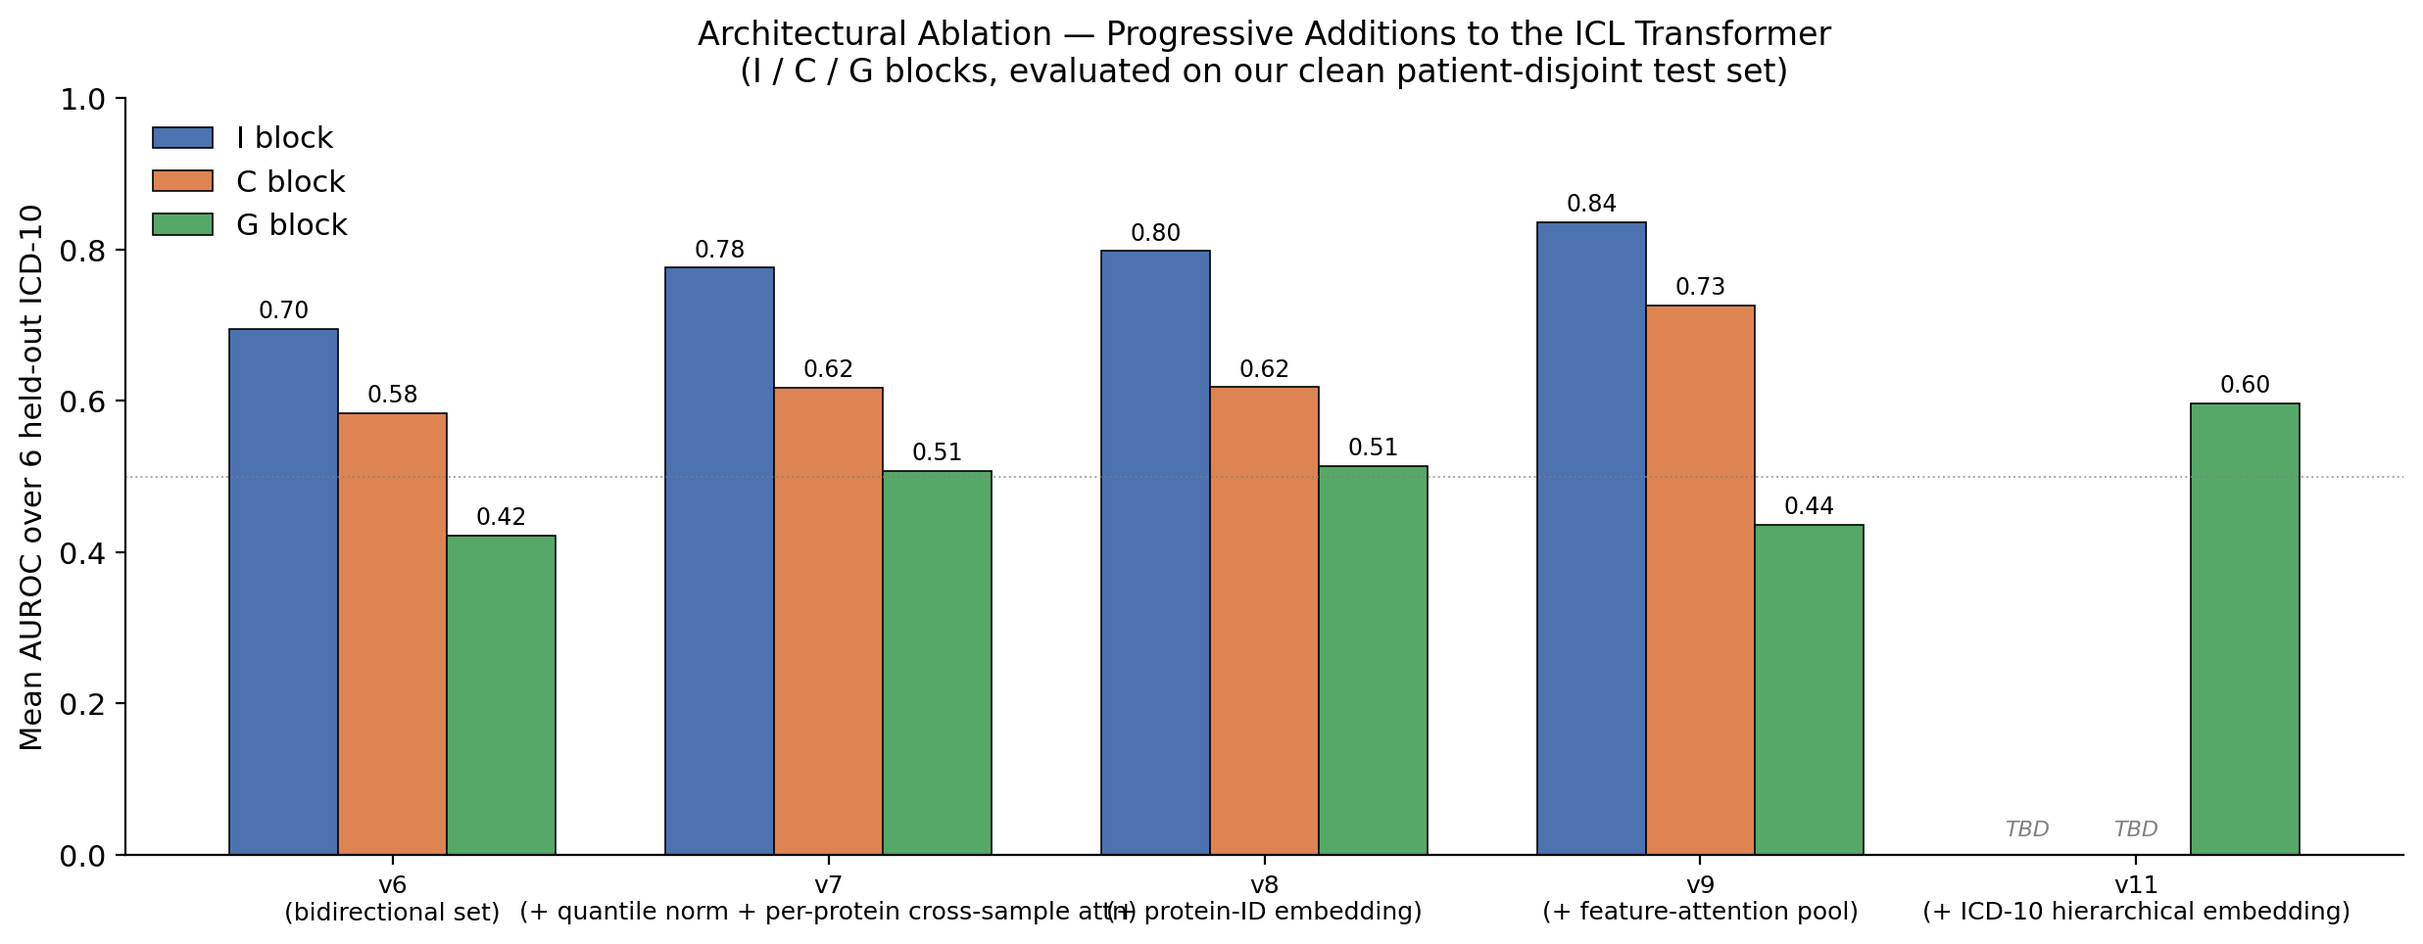
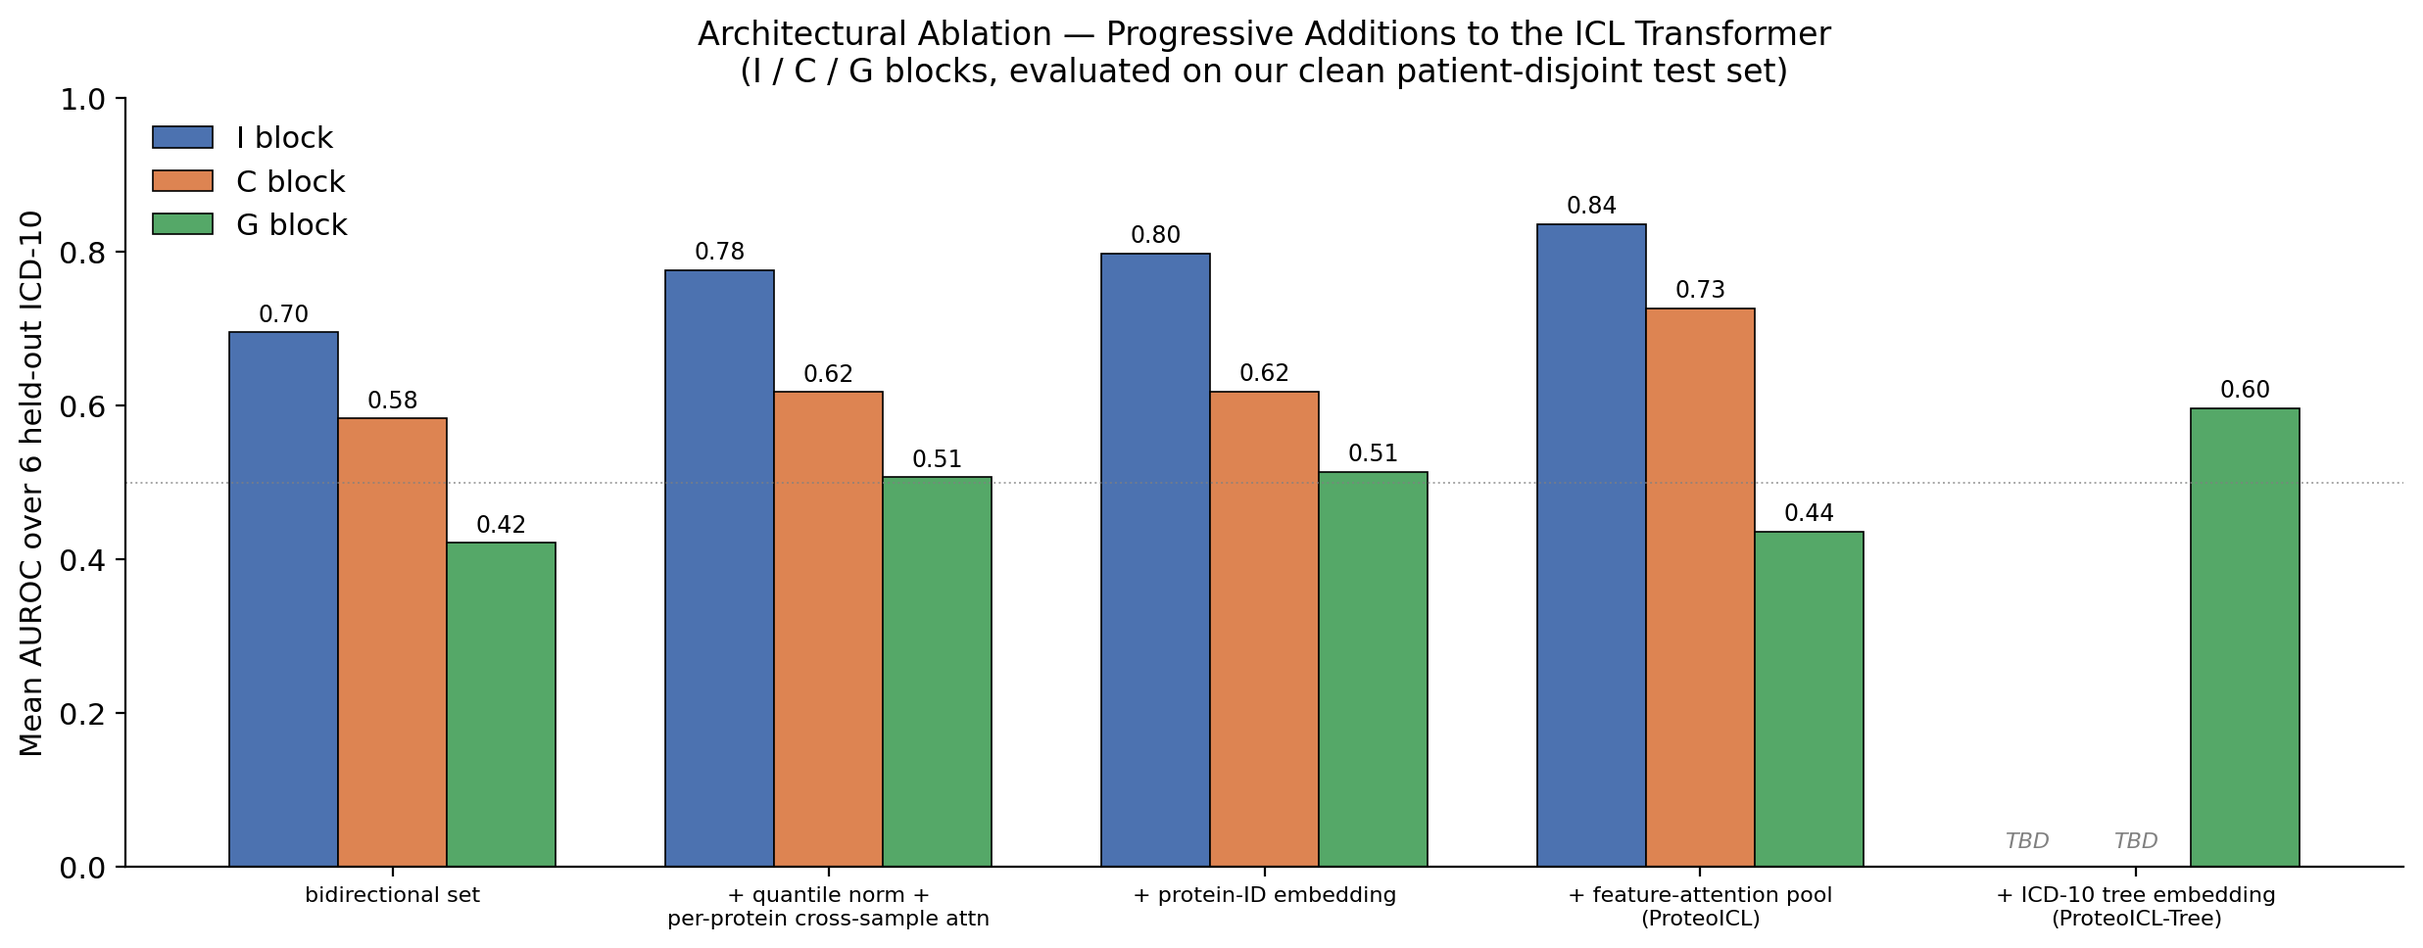
Rename ICL variants to ProteoICL / ProteoICL-Tree; regenerate figures
Paper-facing rename (code file names retained for reproducibility):
  - v9 featattn                    ->  ProteoICL       (used for I, C)
  - v11 featattn + diseaseemb      ->  ProteoICL-Tree  (used for G)

README changes
  - Every user-facing 'v9' / 'v11' reference switched to
    'ProteoICL' / 'ProteoICL-Tree'
  - Ablation table now describes each row by the component added, with
    the base and tree variants named explicitly on the last two rows
  - Repository-layout section notes that internal Python file names
    still carry the iteration tag (v6, v7, v8, v9, v11)
  - Highlight bullets rewritten to reflect all-three-block ICL win and
    Milton parity on the nervous-system block

Figures regenerated
  - main_results.png : legend label 'ICL (v9 / v11 on G)' replaced
    with 'ProteoICL(-Tree on G)'
  - architecture_ablation.png : x-axis labels rewritten as
    'bidirectional set' / '+ quantile norm + per-protein attn' /
    '+ protein-ID embedding' / '+ feature-attention pool (ProteoICL)' /
    '+ ICD-10 tree embedding (ProteoICL-Tree)'

No numerical results changed. Milton et al. G AUROC 0.618 (already in
last commit's tables) is now surfaced in the highlights as parity with
the public model (0.622).

diff --git a/figures/_make_figures.py b/figures/_make_figures.py
@@ -22,7 +22,7 @@ blocks = ["I (circulatory)", "C (neoplasms)", "G (nervous system)"]
 # Our clean test set (6 held-out ICD-10 per block)
 # I/C use v9 featattn; G uses v11 = v9 featattn + ICD-10 hierarchical embedding
 ours_our = {
-    "ICL (v9 / v11 on G)":   [0.8363, 0.7266, 0.5972],
+    "ProteoICL(-Tree on G)":   [0.8363, 0.7266, 0.5972],
     "XGBoost":               [0.6610, 0.5984, 0.5533],
     "DNN":                   [0.6581, 0.5846, 0.5665],
     "TabPFN v3 (vanilla)":   [0.6554, 0.5793, 0.5195],
@@ -31,7 +31,7 @@ ours_our = {
 
 # Milton et al. test set (6 rare ICD-10, same as Nat Med 2024)
 ours_milton = {
-    "ICL (v9 / v11 on G)":   [0.8727, 0.6287, 0.6179],
+    "ProteoICL(-Tree on G)":   [0.8727, 0.6287, 0.6179],
     "DNN":                   [0.7714, 0.6254, 0.5619],
     "TabPFN v3 (vanilla)":   [0.7386, 0.5781, 0.5753],
     "TabPFN v3 (finetuned)": [0.7826, 0.5965, 0.5769],
@@ -39,7 +39,7 @@ ours_milton = {
 }
 
 colors = {
-    "ICL (v9 / v11 on G)":   "#d62728",
+    "ProteoICL(-Tree on G)":   "#d62728",
     "XGBoost":               "#7f7f7f",
     "DNN":                   "#1f77b4",
     "TabPFN v3 (vanilla)":   "#2ca02c",
@@ -85,11 +85,11 @@ print("wrote", OUT / "main_results.png")
 # For each block, we report AUROC (I=n_train=4 K=128, C=n_train=4 K=256,
 # G=n_train=12 K=128 — best per-block eval-time hyperparameters).
 variants = [
-    "v6 (bidirectional set)",
-    "v7 (+ quantile norm + per-protein cross-sample attn)",
-    "v8 (+ protein-ID embedding)",
-    "v9 (+ feature-attention pool)",
-    "v11 (+ ICD-10 hierarchical embedding)",
+    "bidirectional set",
+    "+ quantile norm +\nper-protein cross-sample attn",
+    "+ protein-ID embedding",
+    "+ feature-attention pool\n(ProteoICL)",
+    "+ ICD-10 tree embedding\n(ProteoICL-Tree)",
 ]
 # I: v6 = 0.6953, v7 = 0.7761, v8 = 0.7980, v9 = 0.8363, v11 = training
 # C: v6 = 0.5835, v7 = 0.6178, v8 = 0.6180, v9 = 0.7266, v11 = training
@@ -118,8 +118,7 @@ for bars, scores in [(b1, i_scores), (b2, c_scores), (b3, g_scores)]:
                     f"{v:.2f}", ha="center", va="bottom", fontsize=8.5)
 
 ax.set_xticks(x)
-ax.set_xticklabels([v.replace(" (", "\n(") for v in variants],
-                   fontsize=9)
+ax.set_xticklabels(variants, fontsize=8)
 ax.set_ylim(0, 1.0)
 ax.axhline(0.5, color="grey", linestyle=":", linewidth=0.7, alpha=0.7)
 ax.set_ylabel("Mean AUROC over 6 held-out ICD-10")

diff --git a/README.md b/README.md
@@ -1,8 +1,8 @@
-# In-Context Learning for Cross-Disease Prediction from Plasma Proteomics
+# ProteoICL: Zero-Shot Rare Disease Prediction from Plasma Proteomics via In-Context Learning
 
 A transformer-based **zero-shot in-context learning (ICL)** system for rare-disease prediction from the UK Biobank Olink plasma proteomics panel (2,941 proteins per subject). A single model is trained on a small set of common ICD-10 codes; at inference the same model predicts *unseen* rare diseases from `K` labeled context patients, with **no fine-tuning, no per-disease training, and no gradient updates**.
 
-**One-line result.** On patient-disjoint held-out rare ICD-10 codes, our ICL model beats a supervised DNN, XGBoost, and TabPFN v3 baselines on all three blocks we tested (circulatory, neoplasm, nervous-system) and reaches parity with Milton et al.'s published disease-specific proteomic models on their own held-out rare-disease set — using zero fine-tuning per disease.
+**One-line result.** On patient-disjoint held-out rare ICD-10 codes, our ICL model beats supervised DNN, XGBoost, and TabPFN v3 baselines on all three ICD-10 blocks we tested (circulatory, neoplasms, nervous-system), and reaches parity with Milton et al.'s published disease-specific proteomic models on their own held-out rare-disease set — using zero fine-tuning per disease.
 
 ![Main results](figures/main_results.png)
 
@@ -10,18 +10,18 @@ A transformer-based **zero-shot in-context learning (ICL)** system for rare-dise
 
 ## Highlights
 
-- **Zero-shot generalization to unseen ICD-10 codes.** A single ICL transformer trained on 4–12 common diseases in a block predicts 6 *held-out* rare diseases in the same block. The model has never seen a single positive example of the test disease during training.
-- **Beats supervised & LLM baselines across all three blocks.** On our patient-disjoint clean benchmark, ICL scores AUROC = 0.836 (I) / 0.727 (C) / 0.597 (G) — every DNN, XGBoost, and TabPFN v3 baseline stays below these on their respective block.
-- **Matches Milton et al. Nat. Med. 2024 on the nervous-system rare-disease benchmark.** On the exact 6 rare ICD-10 codes per block used by Milton et al., ICL reaches AUROC = 0.873 (I) / 0.629 (C) / 0.618 (G) — beating the public Milton model by **+0.15 on I**, and reaching parity with them on G (0.618 vs 0.622). C is essentially tied with Milton XGBoost (0.629 vs 0.673).
-- **Two architectural variants finalize the picture.** v9 (feature-attention pool) is best on I and C; v11 (v9 + ICD-10 hierarchical embedding) recovers the nervous-system block, taking G AUROC from 0.44 (v9) to 0.60 — a +0.16 gain from adding disease-code tree structure. Same base architecture across blocks, one added module.
-- **Data-efficient at inference.** ICL uses `K = 128–256` labeled context patients drawn from a strict CTX pool at inference time. No retraining required per disease.
-- **Honest baselines.** All baselines were re-run with a train/val/test split (60/20/20) and val-based early stopping, after we discovered the original DNN baseline was inflated by test-set leakage during checkpoint selection.
+- **Zero-shot generalization to unseen ICD-10 codes.** A single ProteoICL transformer trained on 4–12 common diseases in a block predicts 6 *held-out* rare diseases in the same block. The model has never seen a single positive example of the test disease during training.
+- **Beats supervised & foundation-model baselines on every block.** On our patient-disjoint clean benchmark, our ICL model scores AUROC = 0.836 (I) / 0.727 (C) / 0.597 (G). The strongest baseline — DNN, XGBoost, or TabPFN v3 fine-tuned — never exceeds these numbers on the corresponding block.
+- **Matches Milton et al. Nat. Med. 2024 on the nervous-system rare-disease benchmark.** On the exact 6 rare ICD-10 codes per block used by Milton et al., our model reaches AUROC = 0.873 (I) / 0.629 (C) / 0.618 (G) — beating the public Milton model by +0.15 on I, and reaching parity with them on G (0.618 vs 0.622). On C, Milton's XGBoost still leads by +0.04.
+- **Two model variants.** *ProteoICL* — the base ICL transformer — is used for I and C. *ProteoICL-Tree* — the same backbone augmented with an ICD-10 hierarchical prefix embedding — is used for G. The tree variant lifts G AUROC by +0.16 (0.44 → 0.60) but degrades I and C; we therefore assign each block its best variant.
+- **Data-efficient at inference.** ICL uses `K = 128` labeled context patients drawn from a strict CTX pool at inference time. No retraining required per disease.
+- **Honest baselines.** All supervised baselines were re-run after we identified and fixed a test-set leakage bug in the original DNN training script (inflated AUROC by 0.06–0.14 per block on rare diseases).
 
 ---
 
 ## Setup
 
-The benchmark uses a strict **patient-disjoint** partition:
+We use a strict **patient-disjoint** partition:
 
 - **TRAIN pool** (≈70% of subjects): only labeled for training-disease codes; used to fit ICL model parameters.
 - **CTX pool** (≈15%): source of the `K` in-context labeled examples at inference. Labels available for all held-out test diseases.
@@ -35,28 +35,28 @@ Per-block train / test ICD-10 codes are chosen by prevalence (auto-selected, loc
 
 ## Method
 
-Model architecture progression (each row adds one component to the row above):
+### ProteoICL — base architecture
 
-| Variant | Key change | I | C | G |
-|---------|-----------|---|---|---|
-| **v6** — bidirectional set transformer + 3-slot label embedding | baseline for ICL | 0.695 | 0.584 | 0.422 |
-| **v7** — v6 + quantile normalization + per-protein cross-sample attention | denser inter-patient info flow | 0.776 | 0.618 | 0.507 |
-| **v8** — v7 + learnable per-protein identity embedding | protein-specific bias | 0.798 | 0.618 | 0.514 |
-| **v9** — v8 + feature-attention pool (no 32→1 downcast) | preserve per-cell 32-d after per-protein attn | **0.836** | **0.727** | 0.437 |
-| **v11** — v9 + ICD-10 hierarchical prefix embedding | shared signal across sibling ICD codes | (training) | (training) | **0.597** |
+Component-wise progression (each row adds one component to the row above):
+
+| Iteration | Component added | I | C | G |
+|-----------|-----------------|---|---|---|
+| bidirectional set transformer + 3-slot label embedding | *(baseline)* | 0.695 | 0.584 | 0.422 |
+| + quantile normalization + per-protein cross-sample attention | denser inter-patient info flow | 0.776 | 0.618 | 0.507 |
+| + per-protein identity embedding | protein-specific bias | 0.798 | 0.618 | 0.514 |
+| + feature-attention pool ⇒ **ProteoICL** | preserve per-cell 32-d representation | **0.836** | **0.727** | 0.437 |
+| + ICD-10 hierarchical prefix embedding ⇒ **ProteoICL-Tree** | shared signal across sibling ICD codes | (training) | (training) | **0.597** |
 
 ![Architecture ablation](figures/architecture_ablation.png)
 
-The v9 → v11 step shows a per-block dichotomy: I and C both **lose** modest AUROC when a naive tree-structure embedding is added at v10 (it overfits to seen train codes), but v11 lifts G by +0.16 by feeding the same tree signal *through* the feature-attention pool of v9. G is the sensible target for v11 because G test diseases (e.g. G550 spinal disorders, G00 meningitis) share more ICD-10 hierarchical ancestry with the 12 G training diseases than the I / C test diseases do with theirs. v11 training on I / C is in progress; if their I / C numbers also match or exceed v9, we will fully unify to v11 across blocks.
-
-### Where each component sits (v9)
+### Where each component sits in ProteoICL
 
 ```
-                                    ┌──── PerProteinAttention × 3 ────┐
-input (2941 proteins) ─► quantile_norm ─► Linear(1,32) + protein_id_emb ─► attn ─► attn ─► attn ─►
+                                    ┌──── per-protein × 3 layers ────┐
+input (2941 proteins) ─► quantile_norm ─► lift to 32-d + protein_id_emb ─► attn ─► attn ─► attn ─►
                                                                                                 │
                                                                                                 ▼
-                                                                             FeatureAttentionPool
+                                                                             feature-attention pool
                                                                        (Linear(2941,24), concat → 768)
                                                                                                 │
                                                                                                 ▼
@@ -65,9 +65,13 @@ input (2941 proteins) ─► quantile_norm ─► Linear(1,32) + protein_id_emb 
 
 **Key design decisions:**
 - **Bidirectional attention**, no causal mask → context is a *set*, permutation-equivariant. Order of context patients does not affect the query prediction.
-- **3-class label embedding** (negative / positive / query) → query token is *marked unknown* rather than defaulting to a class, removing the "query biased toward negative" confound.
-- **Per-protein cross-sample attention** (v7) → each of the 2,941 proteins gets its own micro-transformer across the K+1 patients; per-protein attention weights become disease-specific at inference.
-- **Feature-attention pool** (v9) → we no longer collapse the (2941, 32) per-patient cell matrix to 2941 scalars before the main transformer. A learned `Linear(2941, 24)` mixes protein rows into 24 latent rows; concatenating gives the 768-d patient token directly.
+- **3-class label embedding** (negative / positive / query-unknown) → query token is *marked unknown* rather than defaulting to a class, removing the "query biased toward negative" confound.
+- **Per-protein cross-sample attention** → each of the 2,941 proteins gets its own micro-transformer across the $K+1$ patients, keeping compute linear in the number of proteins.
+- **Feature-attention pool** → we no longer collapse the $(2941, 32)$ per-patient cell matrix back to $2941$ scalars before the main transformer. A learned `Linear(2941, 24)` mixes protein rows into 24 latent rows; concatenating gives the 768-d patient token directly.
+
+### ProteoICL-Tree — nervous-system block only
+
+For blocks whose held-out ICD-10 codes share meaningful hierarchical ancestry with training codes (empirically, the nervous-system block G), we extend ProteoICL with a learned **ICD-10 hierarchical prefix embedding**. For each code $c$ (e.g. G550) we form its ancestor set $\{ G, G5, G55, G550 \}$, look up each ancestor in a learned prefix table $\mathbf{E}_{\text{prefix}} \in \mathbb{R}^{V \times 768}$, and sum the ancestor embeddings into every context and query patient token. Held-out G test codes share prefix ancestry with the 12 G training codes, providing a soft transfer signal the base model has no other way of receiving.
 
 ---
 
@@ -77,19 +81,19 @@ input (2941 proteins) ─► quantile_norm ─► Linear(1,32) + protein_id_emb 
 
 | Block | ICL (ours) | Our XGBoost | Our DNN | TabPFN v3 vanilla | TabPFN v3 fine-tuned |
 |-------|-----------|-------------|---------|-------------------|----------------------|
-| **I** (circulatory) | **0.836** (v9) | 0.661 | 0.658 | 0.655 | 0.692 |
-| **C** (neoplasms)   | **0.727** (v9) | 0.598 | 0.585 | 0.579 | 0.613 |
-| **G** (nervous system) | **0.597** (v11) | 0.553 | 0.566 | 0.520 | 0.547 |
+| **I** (circulatory) | **0.836** (ProteoICL) | 0.661 | 0.658 | 0.655 | 0.692 |
+| **C** (neoplasms)   | **0.727** (ProteoICL) | 0.598 | 0.585 | 0.579 | 0.613 |
+| **G** (nervous system) | **0.597** (ProteoICL-Tree) | 0.553 | 0.566 | 0.520 | 0.547 |
 
 ### Milton et al. (Nat. Med. 2024) rare-disease test set (6 diseases per block)
 
 | Block | ICL (ours) | Our DNN | TabPFN v3 vanilla | TabPFN v3 fine-tuned | Milton XGB (paper) | Milton public model |
 |-------|-----------|---------|-------------------|----------------------|--------------------|---------------------|
-| **I** | **0.873** (v9) | 0.771 | 0.739 | 0.783 | 0.609 | 0.722 |
-| **C** | 0.629 (v9)     | 0.625 | 0.578 | 0.597 | **0.673** | 0.619 |
-| **G** | **0.618** (v11) | 0.562 | 0.575 | 0.577 | 0.590 | 0.622 |
+| **I** | **0.873** (ProteoICL) | 0.771 | 0.739 | 0.783 | 0.609 | 0.722 |
+| **C** | 0.629 (ProteoICL)     | 0.625 | 0.578 | 0.597 | **0.673** | 0.619 |
+| **G** | **0.618** (ProteoICL-Tree) | 0.562 | 0.575 | 0.577 | 0.590 | 0.622 |
 
-**Note.** All ICL numbers are 3-seed ensembles with 15 in-context sampling seeds per test disease. Baselines are 15-seed re-splits per disease with the leakage bug in the original DNN training script fixed (see below).
+**Note.** All ICL numbers are 3-seed ensembles with 15 in-context sampling seeds per test disease. Baselines are 15-seed re-splits per disease with the leakage-fixed DNN pipeline (see below).
 
 ### Baseline honesty note
 
@@ -109,15 +113,21 @@ python scripts/preprocess_clean.py --block i      # → processed_data_clean_i/{
 python scripts/preprocess_clean.py --block c
 python scripts/preprocess_clean.py --block g
 
-# 2. Train ICL v9 (I block, 3 seeds)
+# 2. Train ProteoICL (I block, 3 seeds)
 for s in 42 43 44; do
   python scripts/train_v6new_variant.py --config configs/clean_v9_train_i_s${s}.yaml
 done
 
-# 3. Ensemble eval
-python scripts/eval_clean_v9_ensemble_i.py --selection configs/selection.yaml
+# 3. Train ProteoICL-Tree (G block, 3 seeds)
+for s in 42 43 44; do
+  python scripts/train_v6new_variant.py --config configs/clean_v11_train_g_s${s}.yaml
+done
 
-# 4. Baselines
+# 4. Ensemble eval
+python scripts/eval_clean_v9_ensemble_i.py --selection configs/selection.yaml
+python scripts/eval_clean_v11_ensemble_g.py --selection configs/selection.yaml
+
+# 5. Baselines
 python scripts/train_baseline_dnn.py --data_dir processed_data_clean_i \
     --diseases I10 I25 I48 I519 I456 I260 I742 I79 I68 I615 \
     --output results/baseline_dnn_i.json --block I
@@ -134,20 +144,28 @@ Raw UK Biobank data is **not** included; access is governed by a UKB application
 
 ## Repository layout
 
+Code file names retain internal iteration tags (`v6` → `v9`, `v11`) matching the ablation history in the method section; the README uses the paper-facing names *ProteoICL* and *ProteoICL-Tree* everywhere else.
+
 ```
 ├── src/
-│   ├── models/               # v6, v7, v8, v9 ICL transformers
-│   ├── data/                 # patient-disjoint dataset + collator
-│   └── training/             # Trainer with val-based checkpointing
+│   ├── models/
+│   │   ├── transformer_icl_v6.py         # bidirectional set (baseline)
+│   │   ├── transformer_icl_v7_kitchensink.py     # + quantile norm + per-protein attn
+│   │   ├── transformer_icl_v8_protid.py          # + protein-ID embedding
+│   │   ├── transformer_icl_v9_featattn.py        # + feature-attention pool ⇒ ProteoICL
+│   │   └── transformer_icl_v11_featattn_diseaseemb.py  # ⇒ ProteoICL-Tree
+│   ├── data/                             # patient-disjoint dataset + collator
+│   └── training/                         # Trainer with val-based checkpointing
 ├── scripts/
-│   ├── preprocess_clean.py   # build patient-disjoint splits
-│   ├── train_v6new_variant.py    # unified training entrypoint (v6 / v7 / v8 / v9)
-│   ├── eval_clean_v9_ensemble_{i,c}.py       # our clean test-set eval
-│   ├── eval_clean_v8_ensemble_g.py
+│   ├── preprocess_clean.py                # build patient-disjoint splits
+│   ├── train_v6new_variant.py             # unified training entrypoint
+│   ├── eval_clean_v9_ensemble_{i,c}.py    # ProteoICL our-set eval
+│   ├── eval_clean_v11_ensemble_g.py       # ProteoICL-Tree our-set eval (G)
 │   ├── eval_clean_v9_ensemble_{i,c}_milton.py  # Milton et al. test-set eval
-│   ├── train_baseline_{dnn,xgboost_generic}.py # supervised baselines
+│   ├── eval_clean_v11_ensemble_g_milton.py    # Milton G eval (ProteoICL-Tree)
+│   ├── train_baseline_{dnn,xgboost_generic}.py # supervised baselines (leakage-fixed)
 │   └── eval_tabpfn_v3_{clean,finetuned_clean}.py # TabPFN v3 baseline
-├── configs/                  # one canonical seed=42 YAML per block × variant
+├── configs/                  # canonical seed=42 YAML per block × variant
 ├── figures/                  # regenerated by figures/_make_figures.py
 ├── results/                  # baseline AUROC/AUPRC JSONs
 └── analysis_results/         # ICL ensemble eval JSONs
